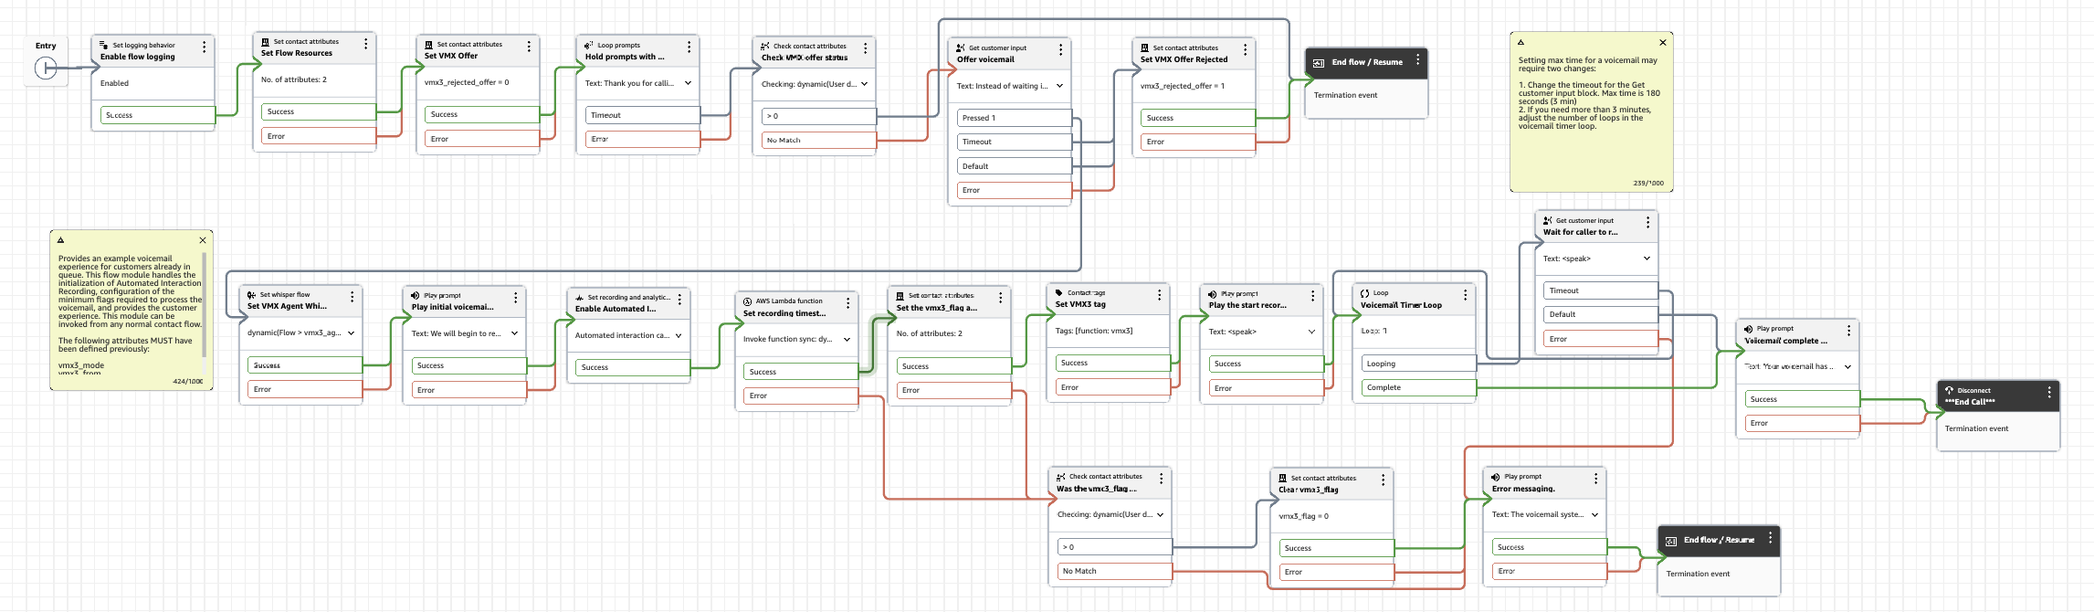
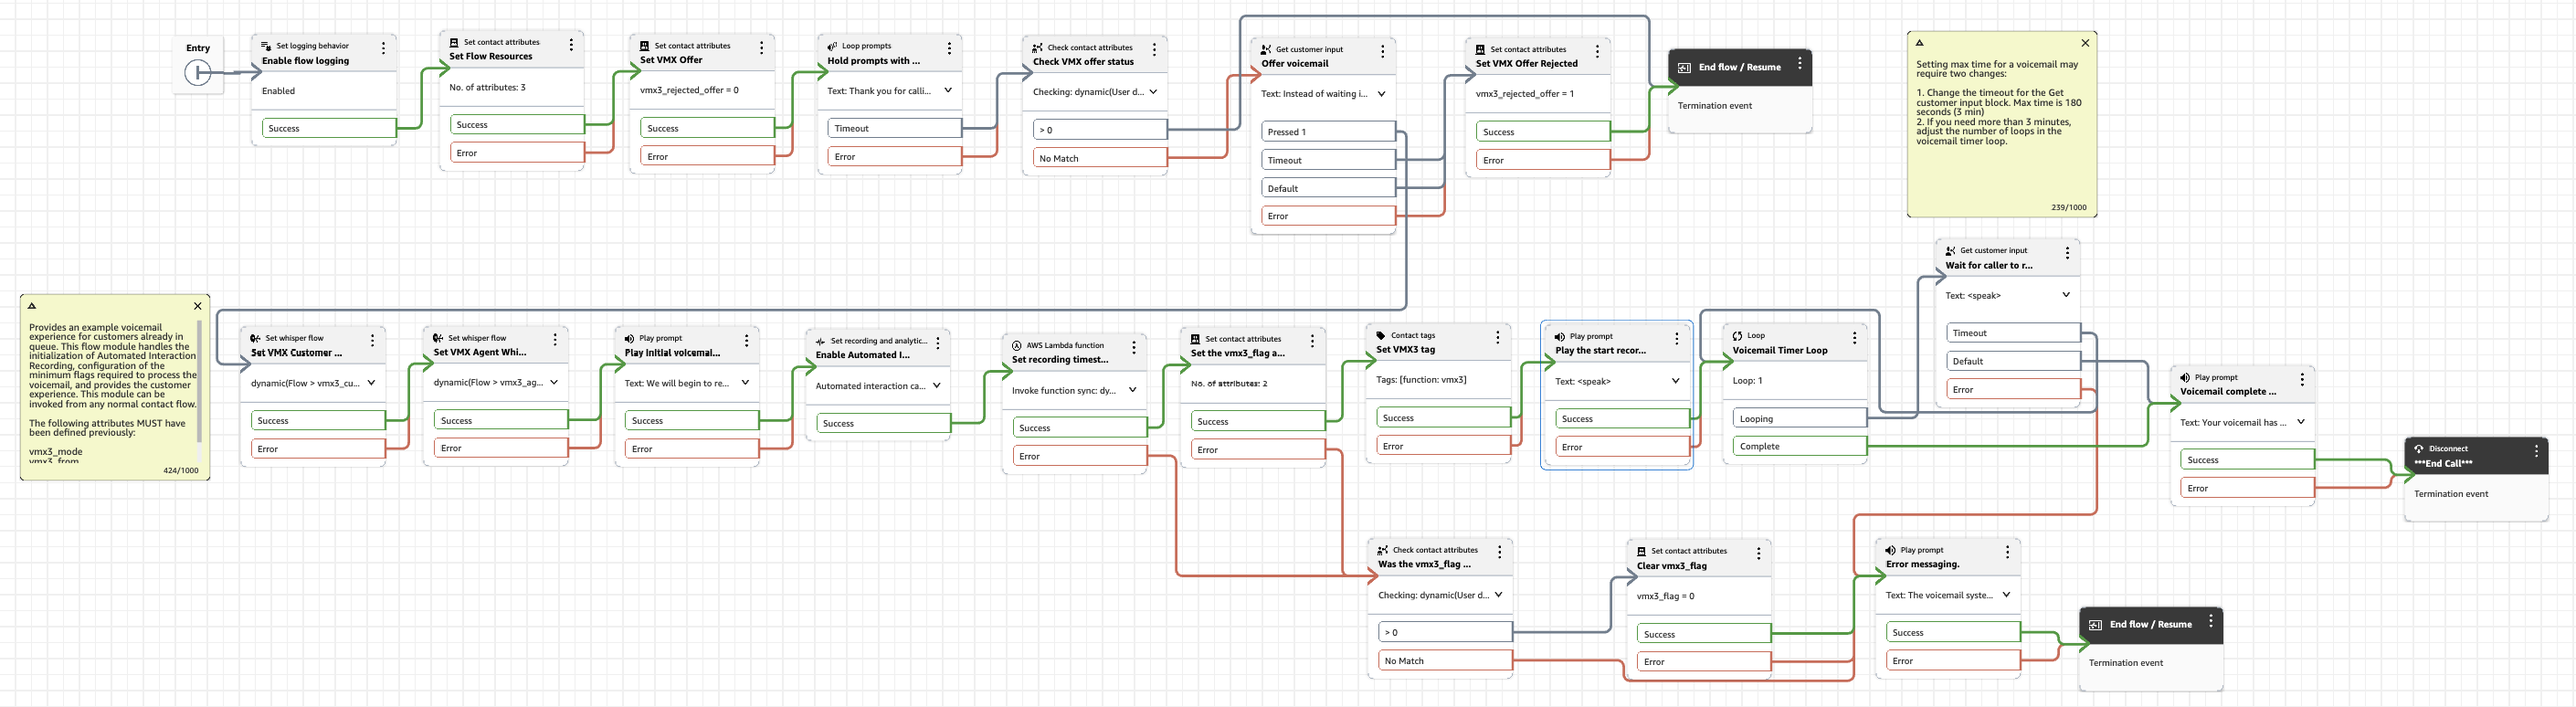
Updated docs for self service

Changed region(s): [[0.0, 0.0, 0.9908, 0.7463], [0.4335, 0.7164, 0.867, 0.9851], [0.031, 0.1791, 0.0619, 0.209]]

diff --git a/Docs/vmx_selfserve.md b/Docs/vmx_selfserve.md
@@ -1,8 +1,56 @@
 # Allow agents to pull/pick voicemails from a queue (Task delivery modes only)
-Amazon Connect recently released the option to allow agents to self-assign contacts. This functions across contact types. Since voicemails are delivered as Amazon Connect Tasks, you can use this feature to allow agents to manually select voicemails from a worklist of voicemails waiting in queue instead of having them automatically route. Additionally, since this capability is configured at the routing profile, delivery can be mixed among different agent pools with some being routed automatically and some being self-service. 
+Amazon Connect recently released the option to allow agents to self-assign contacts. This functions across contact types. Since voicemails are delivered as Amazon Connect Tasks, you can use this feature to allow agents to manually select voicemails from a worklist of voicemails waiting in queue instead of having them automatically route. Additionally, since this capability is configured at the routing profile, delivery can be mixed among different agent pools with some being routed automatically and some being self-service. This can be helpful in circumstances where you want voicemails to be addressed first in the morning, without having to compete with incoming contacts. This can also be used to make personal voicemails (voicemails targeted at a specific agent) available via picklist.
 
+> [!NOTE]  
+> This option is currently only available for agents using the Agent Workspace.
+
+## Configure your Amazon Connect instance
+### Update the security profile
 To enable this option, you must first make sure that users have a security profile that allows them to manually assign contacts to themselves. 
 1.  Login to the Amazon Connect administrative interface. 
 1.  Select **Users** and choose **Security profiles**.
 1.  Find the security profile that you want to modify and select the name to edit it.
-1.  
+1.  In the **Contact Actions** section, select **Allow 'Assign to me' for my contact** or **Allow 'Assign to me' for any contact** as appropriate for your use case. 
+    -  Allow 'Assign to me' for any contact permission - Enables agents to view contacts under any of these conditions:
+        -  Current Agent is the only Preferred Agent on the Contact.
+        -  Current Agent is one of the Preferred Agents on the Contact.
+        -  Any Agent or set of Agents are Preferred Agents on the Contact.
+        -  Contact with no Preferred Agents.
+    -  Allow 'Assign to me' for my contact permission - Enables agents to view contacts under these conditions:
+        -  Current Agent is the only Preferred Agent on the Contact.
+        -  Current Agent is one of the Preferred Agents on the Contact.
+1.  **Save** the security profile.
+![Security profile permnission](/Docs/Img/self_serve_security_profile.png)
+
+### Update the Routing Profile
+Next, you need to give the agent the ability to manually select tasks for each queue that you want them to. 
+1.  Select **Users** and choose **Routing profiles**.
+1.  Find the routing profile that you want to modify and select the name to edit it.
+1.  In the **Manual Assignment** section, select the queues you want agents to be able to self-service, then set the **Channels** to **Task** for each.
+1.  If you do not want tasks to automatically route, make sure to remove tasks from the queues in the **Queues** section.
+1.  Save the routing profile.
+![Routing profile configuration](/Docs/Img/self_serve_routing_profile.png)
+
+### OPTIONAL: Create a new status for manual voicemail work
+If you want agents to be able to remove themselves from the normal contact queue, but still address work in the worklist, you can create a new status that makes them unavailable for routing, but allows them to self-assign work. 
+1.  Select **Users** and choose **Agent status**.
+1.  Choose **Add new agent status**.
+1.  Create a new status. Give it a name like `Working Voicemail` or something to clearly indicate that the agent is self-assigning work.
+1.  Provide a description, if desired, then choose **Save**.
+![New agent status](/Docs/Img/self_serve_agent_status.png)
+
+## Validate your setup
+Once you have made this changes, you can validate by performing the following:
+1.  Log an agent into the agent workspace and put them into the new state.
+    ![Agent in the Working Voicemail state](/Docs/Img/self_serve_logged_in.png)
+1.  Place a few voicemails into queue
+1.  In the agent workspace, select the **Aps** dropdown and choose **Worklist**
+    ![Choose worklist](/Docs/Img/self_serve_set_worklist.png)
+1.  Once the voicemails are ready and the tasks have been created, you will see thenm in the worklist.
+    ![Items in worklist](/Docs/Img/self_serve_worklist_items.png)
+1.  Selecting an item will load a preview of the task. 
+    ![Items in worklist](/Docs/Img/self_serve_task_preview.png)
+1.  Select **Assign to me**, the choose **Assign** in the popup. The task will route to you. 
+    ![Items in worklist](/Docs/Img/self_serve_connected_task.png)
+
+You're all set!

diff --git a/Docs/vmx_inqvm.md b/Docs/vmx_inqvm.md
@@ -10,7 +10,7 @@ In this version of Voicemail Express, three contact flows have been provided to 
 
 ## VMX3_In_Queue_Option
 ![VMX3_In_Queue_Option Flow](/Docs/Img/vmx3_inqueue_option.png)
-This flow provides the option to leave a voicemail instead of remaining in queue. It tracks the customer reposne to the offer, and does not offer the option again if the customer declines so that they are not repeatedly asked the same question. If they do select to leave a voicemail, the VMX3_In_Queue_Agent_Whisper flow is set, and the rest of the experience mimics the normal voicemail experience. 
+This flow provides the option to leave a voicemail instead of remaining in queue. It tracks the customer reposne to the offer, and does not offer the option again if the customer declines so that they are not repeatedly asked the same question. If they do select to leave a voicemail, the VMX3_In_Queue_Agent_Whisper and VMX3_In_Queue_Customer_Whisper flows are set, and the rest of the experience mimics the normal voicemail experience. 
 
 ## VMX3_In_Queue_Agent_Whisper
 ![VMX3_In_Queue_Agent_Whisper Flow](/Docs/Img/vmx3_inqueue_whisper.png)

diff --git a/Docs/vmx_upgrade.md b/Docs/vmx_upgrade.md
@@ -19,7 +19,7 @@ When new versions of Voicemail Express are release, you can easily upgrade to th
 1.  Change that value to the latest version available. You can find the latest version at the end of the [README](https://github.com/amazon-connect/voicemail-express-amazon-connect) page.
 1.  There may have been additional fields and changes. Please validate/update all other fields as well.
 > [!IMPORTANT]  
-> When updating from aversion before 2025.09.12, you MUST provide the bucket that Amazon Connect uses to store recordings. 
+> When updating from a version before 2025.09.12, you MUST provide the bucket that Amazon Connect uses to store recordings. 
 14. Once the parameters are filled out, choose **Next**
 14. Scroll to the bottom and select **Next**
 14. Scroll to the bottom, select the boxes to **acknowledge that IAM resources will be created**
